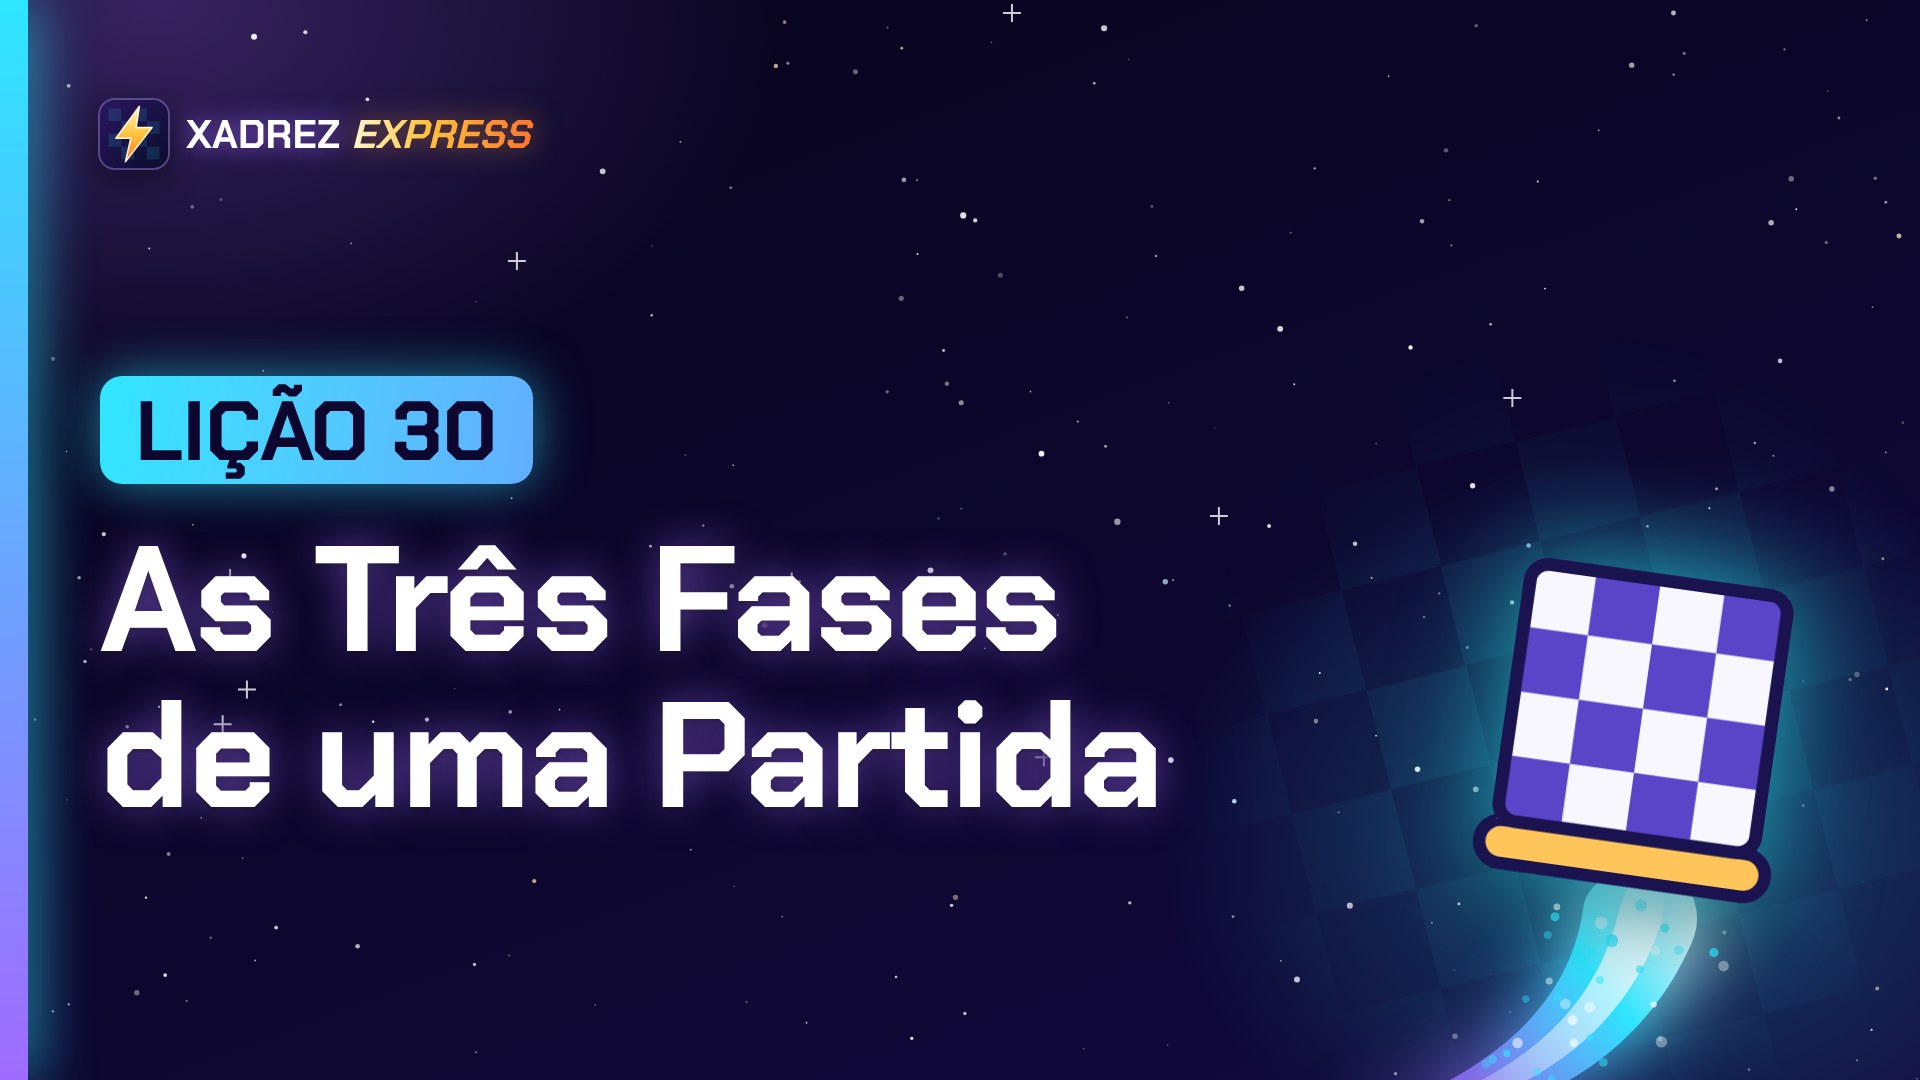
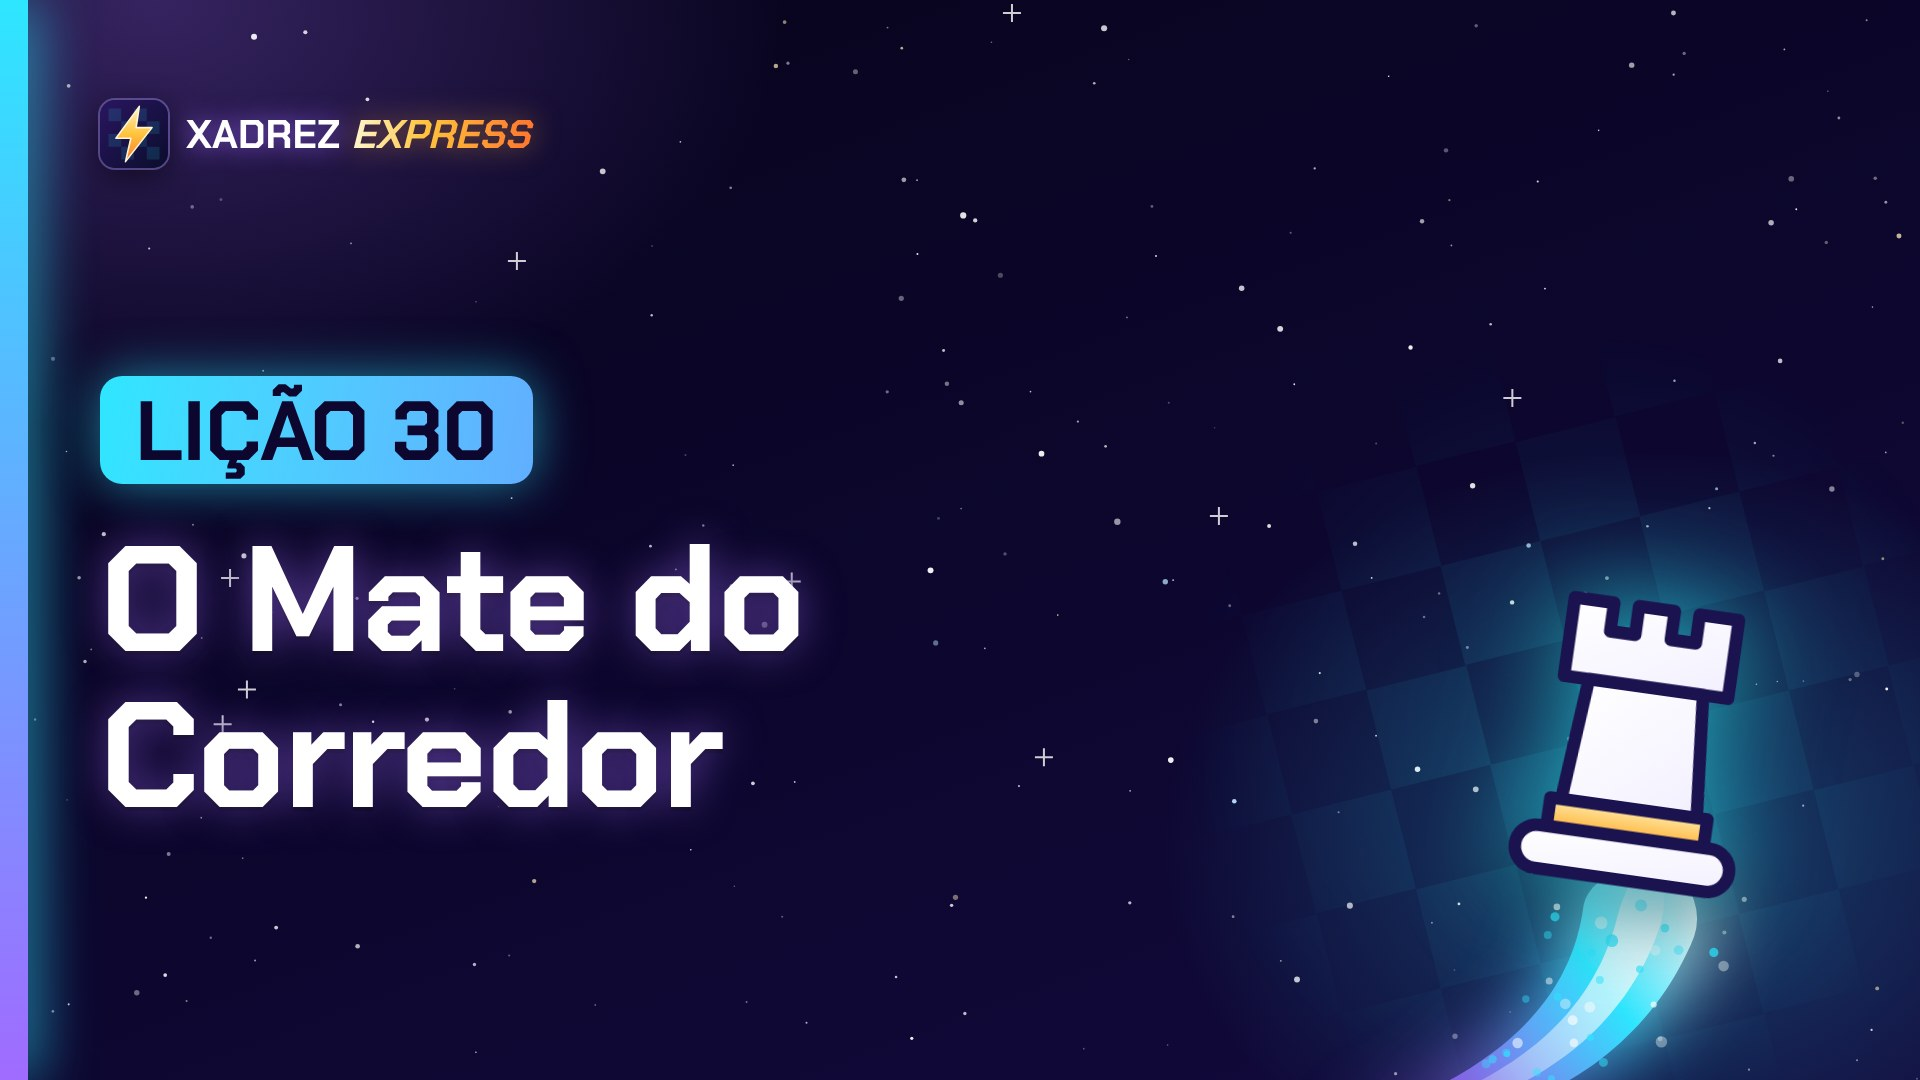
Capas: Módulo 5 passa a ser Xeque-mates e Finais (lições 30 a 35)
A versão anterior (Sua Primeira Partida) fica comentada em lista.js.

Claude-Session: https://claude.ai/code/session_01TiCEz9v6sPBGKMhfiJviFX

Changed region(s): [[0.75, 0.4889, 0.9688, 0.8556], [0.0312, 0.6417, 0.625, 0.7639], [0.0312, 0.4889, 0.5625, 0.6111]]

diff --git a/capas/lista.js b/capas/lista.js
@@ -80,15 +80,30 @@ module.exports = [
   },
   {
     numero: '5',
-    titulo: 'Sua Primeira Partida',
-    peca: 'wp',
+    titulo: 'Xeque-mates e Finais',
+    peca: 'bk',
     aulas: [
-      { rotulo: 'Lição 30', titulo: 'As Três Fases de uma Partida', peca: 'tabuleiro' },
-      { rotulo: 'Lição 31', titulo: 'Como Começar Bem uma Partida', peca: 'wn' },
-      { rotulo: 'Lição 32', titulo: 'Os Erros Mais Comuns dos Iniciantes', peca: 'bp' },
-      { rotulo: 'Lição 33', titulo: 'Como Pensar Antes de Jogar', peca: 'wb' },
-      { rotulo: 'Lição 34', titulo: 'Como Praticar e Evoluir no Xadrez', peca: 'wq' },
-      { rotulo: 'Lição 35', titulo: 'Seu Próximo Passo no Xadrez', peca: 'foguete' },
+      { rotulo: 'Lição 30', titulo: 'O Mate do Corredor', peca: 'wr' },
+      { rotulo: 'Lição 31', titulo: 'O Mate do Pastor', peca: 'wq' },
+      { rotulo: 'Lição 32', titulo: 'Mate com Dama e Rei', peca: 'wq' },
+      { rotulo: 'Lição 33', titulo: 'Mate com Torre e Rei', peca: 'wr' },
+      { rotulo: 'Lição 34', titulo: 'A Oposição dos Reis', peca: 'wk' },
+      { rotulo: 'Lição 35', titulo: 'A Regra do Quadrado', peca: 'wp' },
     ],
   },
+  // A versão anterior do Módulo 5, guardada caso volte (por exemplo, como Módulo 6).
+  // Para usar: tire as barras do começo das linhas e acerte o número.
+  // {
+  //   numero: '5',
+  //   titulo: 'Sua Primeira Partida',
+  //   peca: 'wp',
+  //   aulas: [
+  //     { rotulo: 'Lição 30', titulo: 'As Três Fases de uma Partida', peca: 'tabuleiro' },
+  //     { rotulo: 'Lição 31', titulo: 'Como Começar Bem uma Partida', peca: 'wn' },
+  //     { rotulo: 'Lição 32', titulo: 'Os Erros Mais Comuns dos Iniciantes', peca: 'bp' },
+  //     { rotulo: 'Lição 33', titulo: 'Como Pensar Antes de Jogar', peca: 'wb' },
+  //     { rotulo: 'Lição 34', titulo: 'Como Praticar e Evoluir no Xadrez', peca: 'wq' },
+  //     { rotulo: 'Lição 35', titulo: 'Seu Próximo Passo no Xadrez', peca: 'foguete' },
+  //   ],
+  // },
 ];
